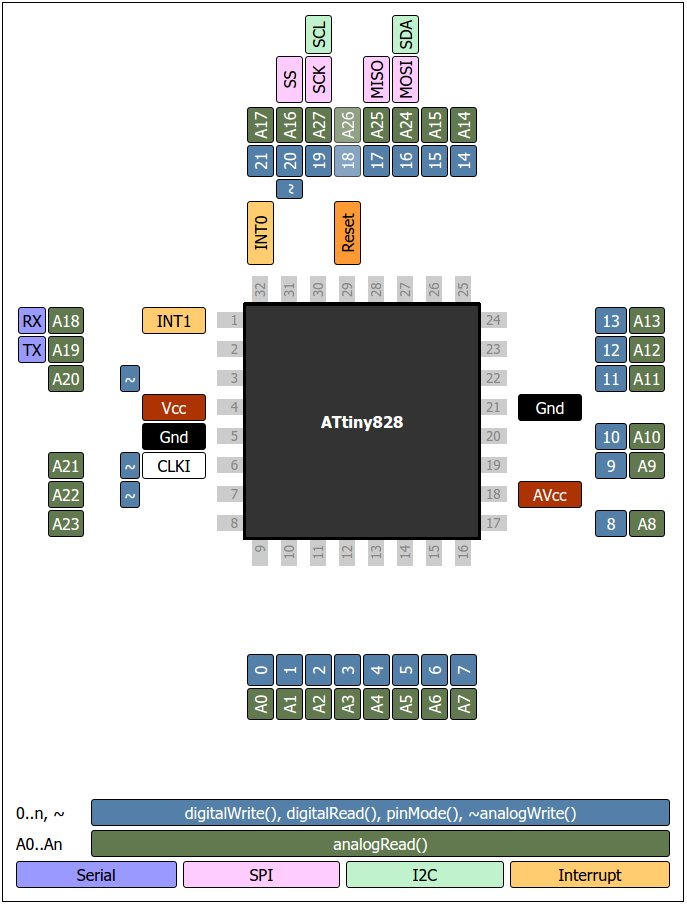
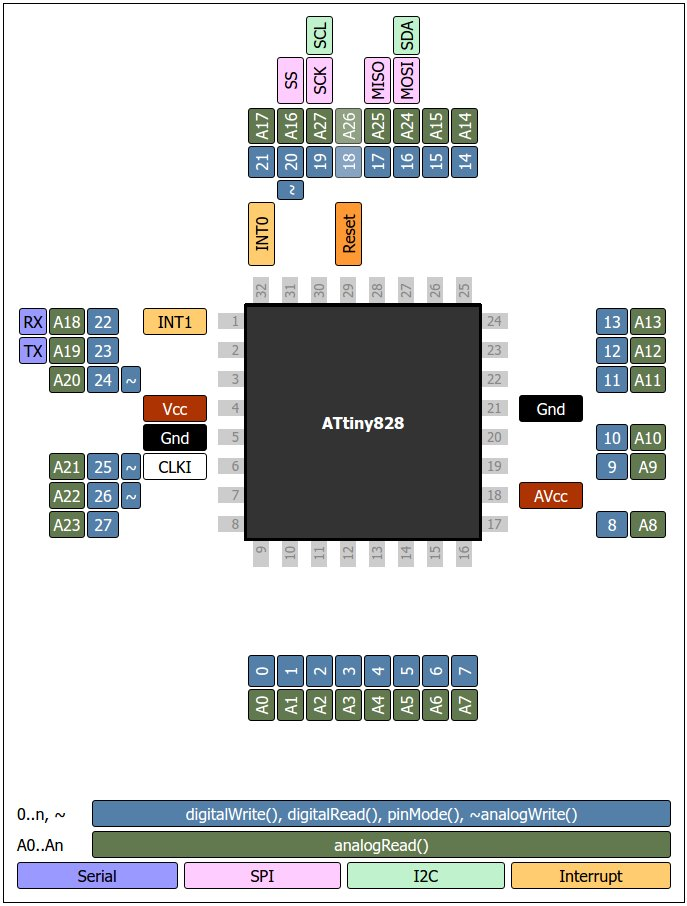
Missed some digital pins on the 828

diff --git a/templates.js b/templates.js
@@ -177,7 +177,7 @@ var templates = [
           
           PRC    :   { Vcc:[4], AVcc: 18, Gnd:[5,21], Reset: 29, CLKI: 6, Interrupt: [32,1]}, // Closest labels to chip
           PWM    :   [3,6,7,31],
-          Digital:   [9,10,11,12,13,14,15,16,17,19,20,22,23,24,25,26,27,28,29,30,31,32], 
+          Digital:   [9,10,11,12,13,14,15,16,17,19,20,22,23,24,25,26,27,28,29,30,31,32,1,2,3,6,7,8], 
           Analog :   [9,10,11,12,13,14,15,16,17,19,20,22,23,24,25,26,31,32,1,2,3,6,7,8,27,28,29,30],
           
           Peripherals: 
